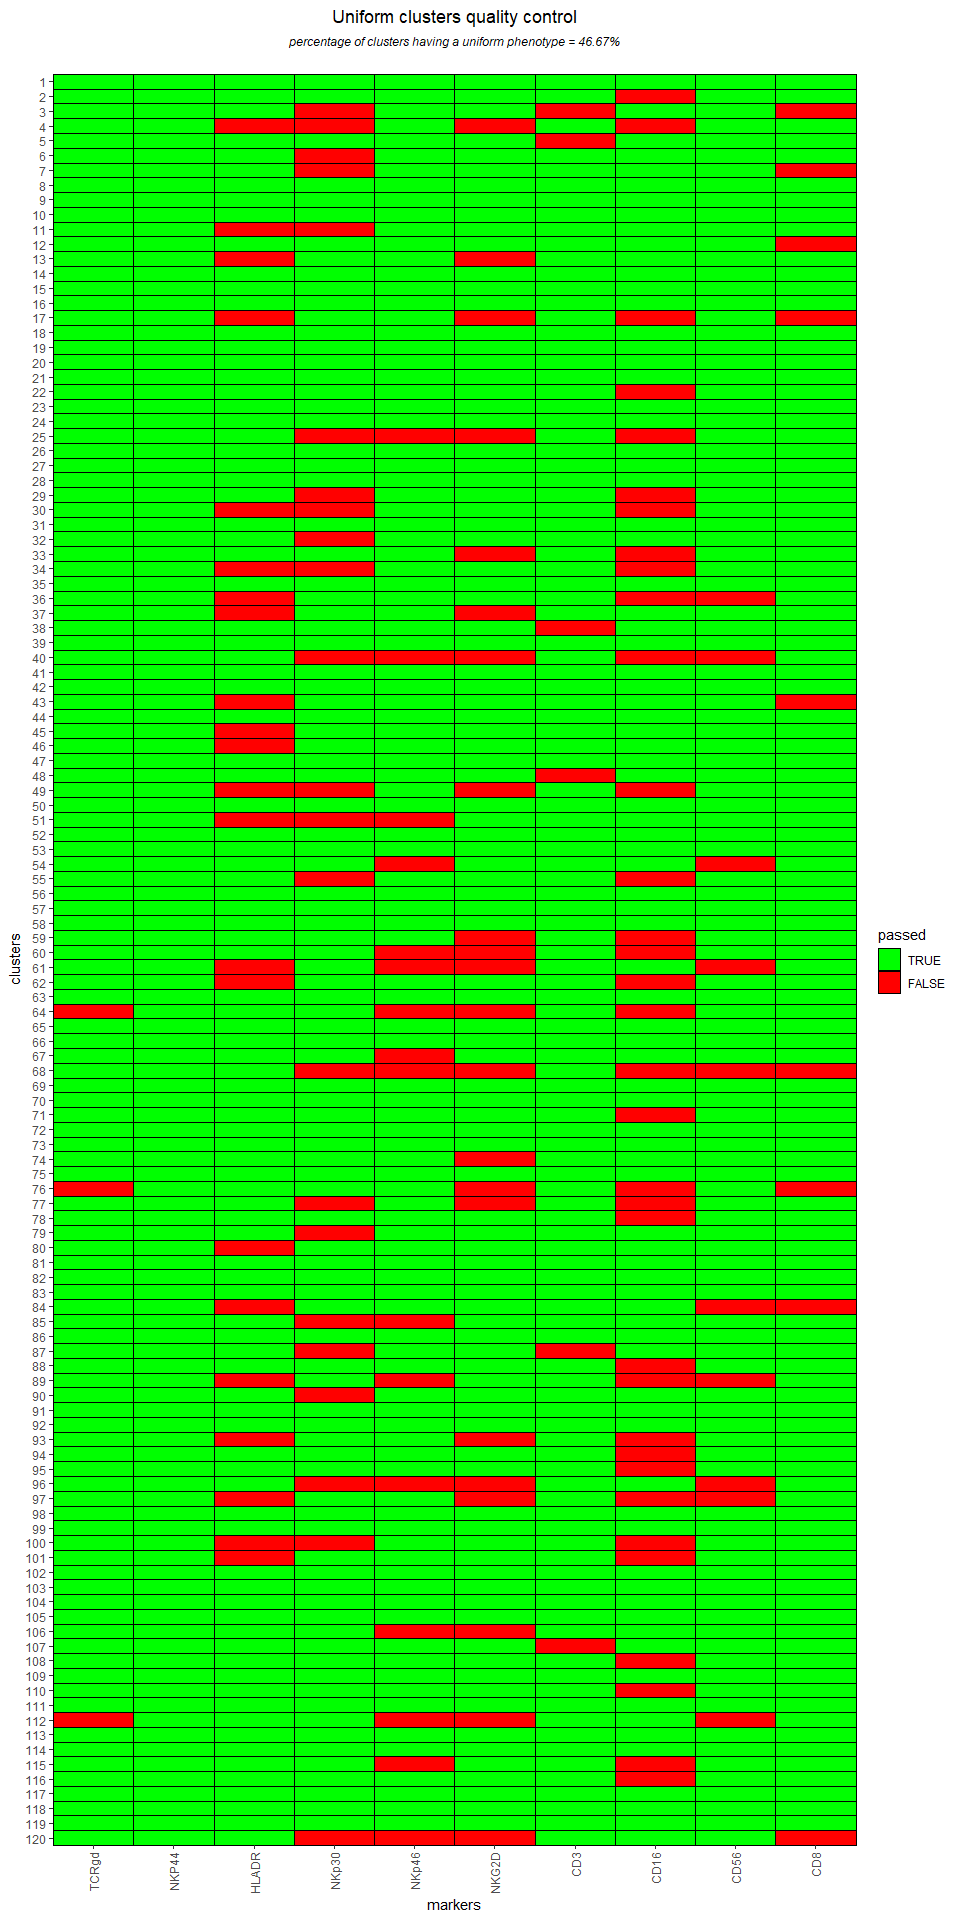
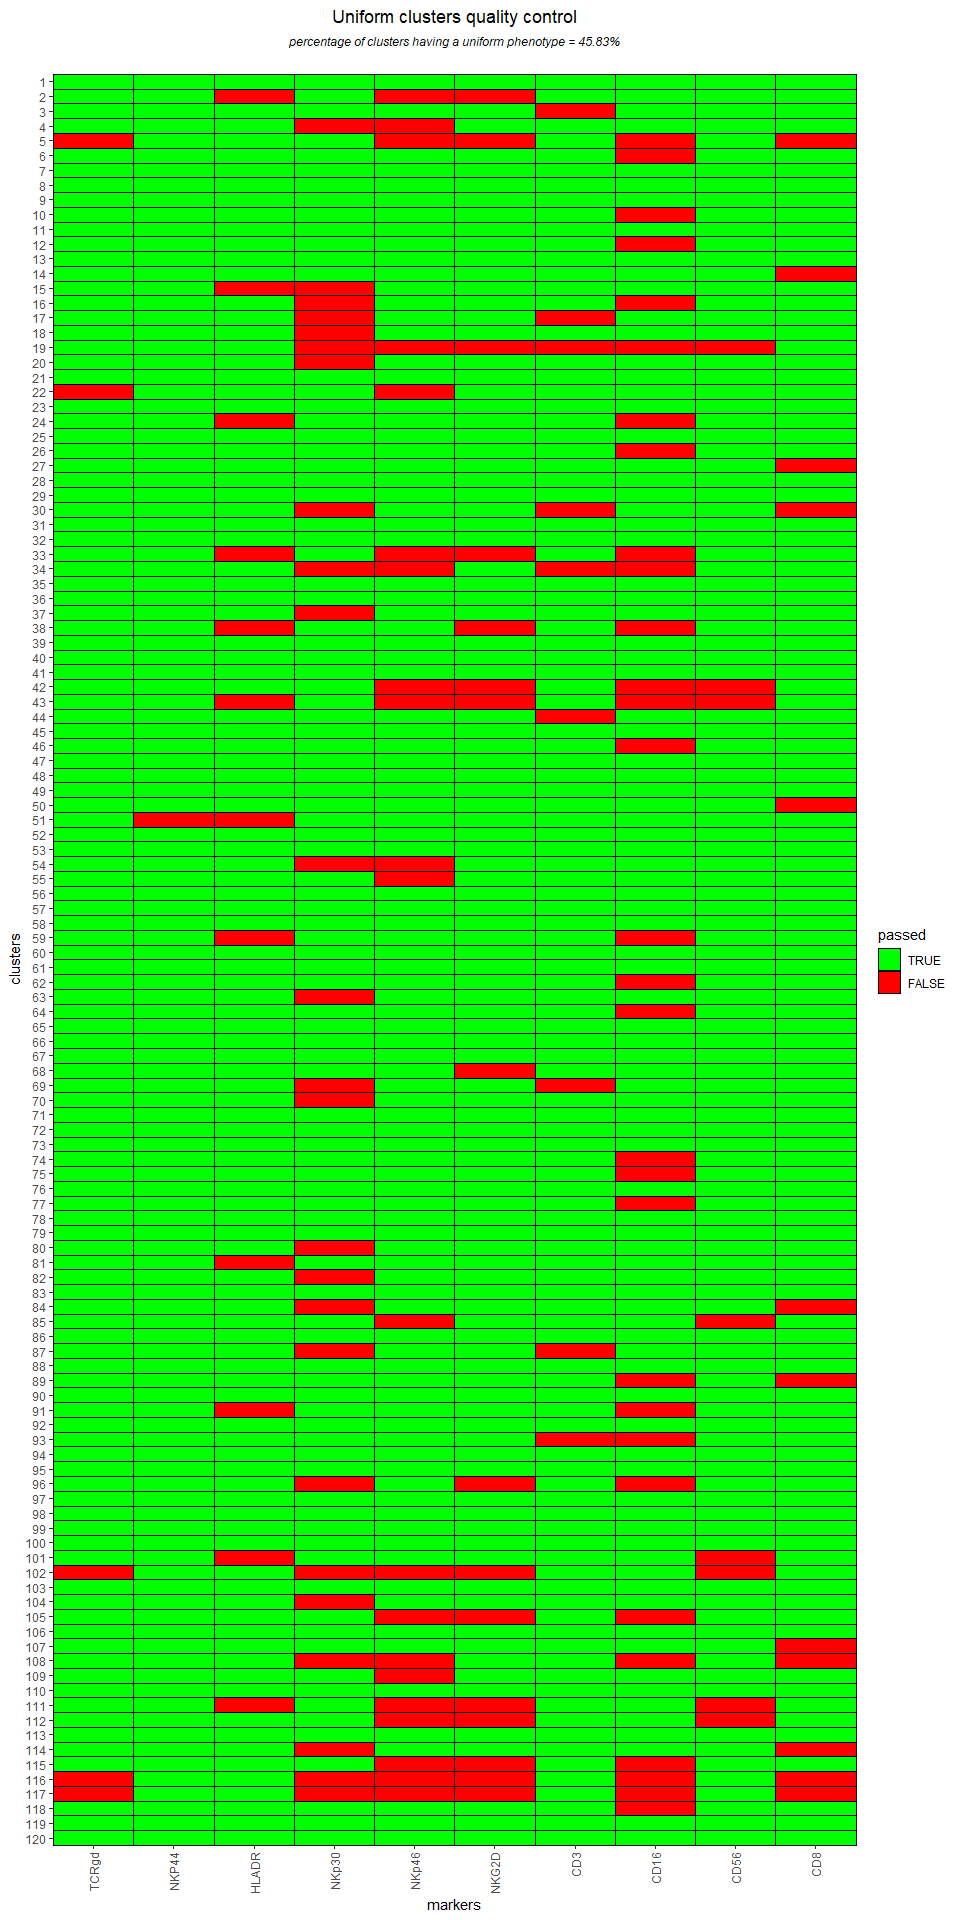
update

diff --git a/README.md b/README.md
@@ -265,26 +265,26 @@ UMAPV <- generateManifold(UMAPV,
 
     ## Manifold method is: UMAP
 
-    ## 17:32:02 UMAP embedding parameters a = 1.896 b = 0.8006
+    ## 11:52:32 UMAP embedding parameters a = 1.896 b = 0.8006
 
-    ## 17:32:02 Read 26682 rows and found 10 numeric columns
+    ## 11:52:32 Read 26677 rows and found 10 numeric columns
 
-    ## 17:32:02 Using Annoy for neighbor search, n_neighbors = 15
+    ## 11:52:32 Using Annoy for neighbor search, n_neighbors = 15
 
-    ## 17:32:02 Building Annoy index with metric = euclidean, n_trees = 50
+    ## 11:52:33 Building Annoy index with metric = euclidean, n_trees = 50
 
     ## 0%   10   20   30   40   50   60   70   80   90   100%
 
     ## [----|----|----|----|----|----|----|----|----|----|
 
     ## **************************************************|
-    ## 17:32:04 Writing NN index file to temp file C:\Users\GWMA\AppData\Local\Temp\RtmpclyopB\file46ac4de77d1d
-    ## 17:32:04 Searching Annoy index using 40 threads, search_k = 1500
-    ## 17:32:05 Annoy recall = 100%
-    ## 17:32:05 Commencing smooth kNN distance calibration using 40 threads
-    ## 17:32:06 Initializing from normalized Laplacian + noise
-    ## 17:32:07 Commencing optimization for 200 epochs, with 535980 positive edges using 1 thread
-    ## 17:32:25 Optimization finished
+    ## 11:52:34 Writing NN index file to temp file C:\Users\GWMA\AppData\Local\Temp\Rtmp0QWqgt\file2ce034ed2398
+    ## 11:52:34 Searching Annoy index using 40 threads, search_k = 1500
+    ## 11:52:35 Annoy recall = 100%
+    ## 11:52:36 Commencing smooth kNN distance calibration using 40 threads
+    ## 11:52:37 Initializing from normalized Laplacian + noise
+    ## 11:52:37 Commencing optimization for 200 epochs, with 535996 positive edges using 1 thread
+    ## 11:52:55 Optimization finished
 
 The main arguments of the `generateManifold` function are:
 
@@ -390,8 +390,9 @@ plotManifold(UMAPV,
              markers = "clusters")
 ```
 
-![](README/figure-markdown_github/PlotManifold4-1.png) \### 2.5.2
-Heatmap of cell marker expressions (plotHmExpressions)
+![](README/figure-markdown_github/PlotManifold4-1.png)
+
+### 2.5.2 Heatmap of cell marker expressions (plotHmExpressions)
 
 The `plotHmExpressions` function shows marker median relative
 expressions for all clusters in the whole dataset.
@@ -771,40 +772,40 @@ QCS <- QCSmallClusters(UMAPV,
 ![](README/figure-markdown_github/QCSmallClusters-1.png)
 
     ##      V1_10105LA V1_10209HE V1_10306CG V1_10503DC V1_11204CD V1_20208AA
-    ## [1,]      FALSE      FALSE      FALSE       TRUE       TRUE      FALSE
-    ## [2,]       TRUE       TRUE       TRUE      FALSE      FALSE      FALSE
-    ## [3,]       TRUE       TRUE       TRUE       TRUE       TRUE       TRUE
-    ## [4,]      FALSE      FALSE       TRUE      FALSE      FALSE      FALSE
-    ## [5,]       TRUE      FALSE      FALSE      FALSE      FALSE      FALSE
-    ## [6,]      FALSE      FALSE       TRUE      FALSE       TRUE       TRUE
-    ##      V1_20210RF V6_10105LA V6_10209HE V6_10306CG V6_10503DC V6_11204CD
-    ## [1,]      FALSE      FALSE      FALSE      FALSE      FALSE       TRUE
-    ## [2,]      FALSE       TRUE      FALSE      FALSE      FALSE      FALSE
-    ## [3,]       TRUE       TRUE       TRUE       TRUE       TRUE       TRUE
-    ## [4,]      FALSE      FALSE      FALSE       TRUE      FALSE      FALSE
-    ## [5,]      FALSE      FALSE      FALSE      FALSE      FALSE      FALSE
-    ## [6,]      FALSE      FALSE      FALSE       TRUE       TRUE      FALSE
-    ##      V6_20208AA V6_20210RF V7_10105LA V7_10209HE V7_10306CG V7_10503DC
-    ## [1,]      FALSE      FALSE      FALSE       TRUE      FALSE      FALSE
+    ## [1,]       TRUE       TRUE      FALSE       TRUE       TRUE       TRUE
     ## [2,]      FALSE      FALSE      FALSE      FALSE      FALSE      FALSE
-    ## [3,]       TRUE       TRUE       TRUE       TRUE       TRUE       TRUE
-    ## [4,]      FALSE      FALSE      FALSE      FALSE       TRUE      FALSE
-    ## [5,]      FALSE      FALSE      FALSE      FALSE      FALSE      FALSE
-    ## [6,]      FALSE      FALSE      FALSE      FALSE      FALSE      FALSE
+    ## [3,]       TRUE       TRUE      FALSE       TRUE       TRUE       TRUE
+    ## [4,]       TRUE       TRUE       TRUE       TRUE       TRUE       TRUE
+    ## [5,]       TRUE       TRUE       TRUE       TRUE      FALSE       TRUE
+    ## [6,]       TRUE       TRUE      FALSE       TRUE       TRUE      FALSE
+    ##      V1_20210RF V6_10105LA V6_10209HE V6_10306CG V6_10503DC V6_11204CD
+    ## [1,]       TRUE       TRUE      FALSE      FALSE       TRUE       TRUE
+    ## [2,]      FALSE      FALSE      FALSE      FALSE      FALSE      FALSE
+    ## [3,]      FALSE      FALSE       TRUE       TRUE      FALSE      FALSE
+    ## [4,]       TRUE       TRUE       TRUE       TRUE       TRUE       TRUE
+    ## [5,]       TRUE       TRUE      FALSE       TRUE       TRUE      FALSE
+    ## [6,]       TRUE      FALSE      FALSE      FALSE      FALSE      FALSE
+    ##      V6_20208AA V6_20210RF V7_10105LA V7_10209HE V7_10306CG V7_10503DC
+    ## [1,]      FALSE      FALSE      FALSE      FALSE      FALSE      FALSE
+    ## [2,]      FALSE      FALSE      FALSE      FALSE      FALSE      FALSE
+    ## [3,]      FALSE      FALSE      FALSE       TRUE       TRUE      FALSE
+    ## [4,]      FALSE       TRUE       TRUE       TRUE       TRUE       TRUE
+    ## [5,]       TRUE       TRUE      FALSE      FALSE      FALSE      FALSE
+    ## [6,]      FALSE      FALSE      FALSE      FALSE      FALSE       TRUE
     ##      V7_11204CD V7_20208AA V7_20210RF V8_10105LA V8_10209HE V8_10306CG
-    ## [1,]       TRUE      FALSE      FALSE       TRUE      FALSE      FALSE
-    ## [2,]      FALSE      FALSE      FALSE      FALSE       TRUE       TRUE
-    ## [3,]       TRUE       TRUE       TRUE       TRUE       TRUE       TRUE
-    ## [4,]       TRUE      FALSE      FALSE       TRUE      FALSE      FALSE
-    ## [5,]       TRUE      FALSE      FALSE      FALSE      FALSE      FALSE
-    ## [6,]       TRUE      FALSE      FALSE      FALSE      FALSE       TRUE
+    ## [1,]       TRUE      FALSE      FALSE      FALSE      FALSE      FALSE
+    ## [2,]       TRUE      FALSE      FALSE      FALSE      FALSE      FALSE
+    ## [3,]       TRUE      FALSE      FALSE       TRUE       TRUE      FALSE
+    ## [4,]       TRUE       TRUE       TRUE       TRUE       TRUE       TRUE
+    ## [5,]       TRUE       TRUE       TRUE       TRUE       TRUE       TRUE
+    ## [6,]       TRUE      FALSE      FALSE       TRUE      FALSE      FALSE
     ##      V8_10503DC V8_11204CD V8_20208AA V8_20210RF total.cells
-    ## [1,]      FALSE       TRUE      FALSE      FALSE       FALSE
+    ## [1,]       TRUE       TRUE       TRUE      FALSE       FALSE
     ## [2,]      FALSE      FALSE      FALSE      FALSE       FALSE
-    ## [3,]       TRUE       TRUE       TRUE       TRUE       FALSE
-    ## [4,]      FALSE      FALSE      FALSE      FALSE       FALSE
-    ## [5,]      FALSE      FALSE      FALSE      FALSE       FALSE
-    ## [6,]      FALSE       TRUE      FALSE      FALSE       FALSE
+    ## [3,]      FALSE      FALSE      FALSE      FALSE       FALSE
+    ## [4,]       TRUE       TRUE       TRUE       TRUE       FALSE
+    ## [5,]      FALSE       TRUE      FALSE       TRUE       FALSE
+    ## [6,]       TRUE       TRUE       TRUE      FALSE       FALSE
 
 The second method allows to identify the uniform clusters, i.e.those
 with unimodal expression and low dispersion of expression for all its
@@ -845,12 +846,12 @@ QCU <- QCUniformClusters(UMAPV,
 ![](README/figure-markdown_github/QCUniformClusters-1.png)
 
     ##   clusters markers    pv_dip       IQR passed
-    ## 1        1    CD16 0.9840834 0.3861998   TRUE
-    ## 2        1     CD3 0.9909752 0.3403437   TRUE
-    ## 3        1    CD56 0.9608222 0.3313725   TRUE
-    ## 4        1     CD8 0.9204992 0.3471428   TRUE
-    ## 5        1   HLADR 0.9886411 0.2666003   TRUE
-    ## 6        1   NKG2D 0.9414757 0.2208474   TRUE
+    ## 1        1    CD16 1.0000000 0.4233934   TRUE
+    ## 2        1     CD3 0.9932586 0.3453512   TRUE
+    ## 3        1    CD56 0.9955952 0.3693838   TRUE
+    ## 4        1     CD8 0.9932251 0.3904407   TRUE
+    ## 5        1   HLADR 0.9901313 0.4710684   TRUE
+    ## 6        1   NKG2D 0.9955082 0.3027702   TRUE
 
 # 5. Advanced usage
 
